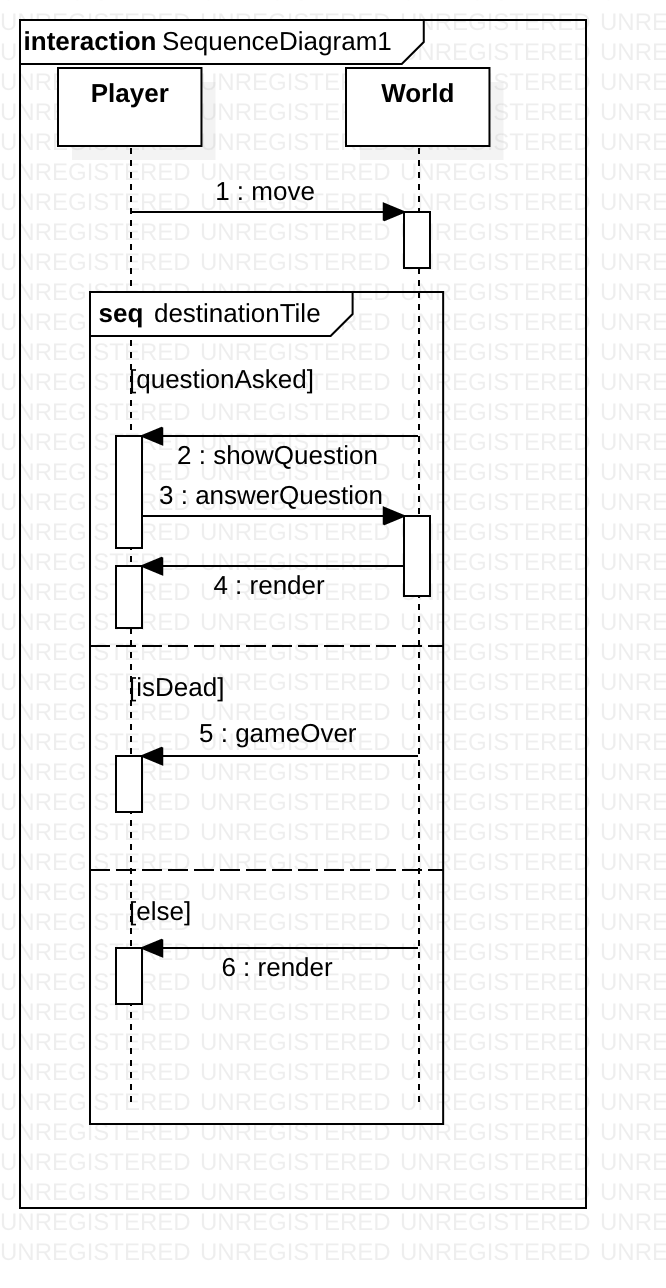
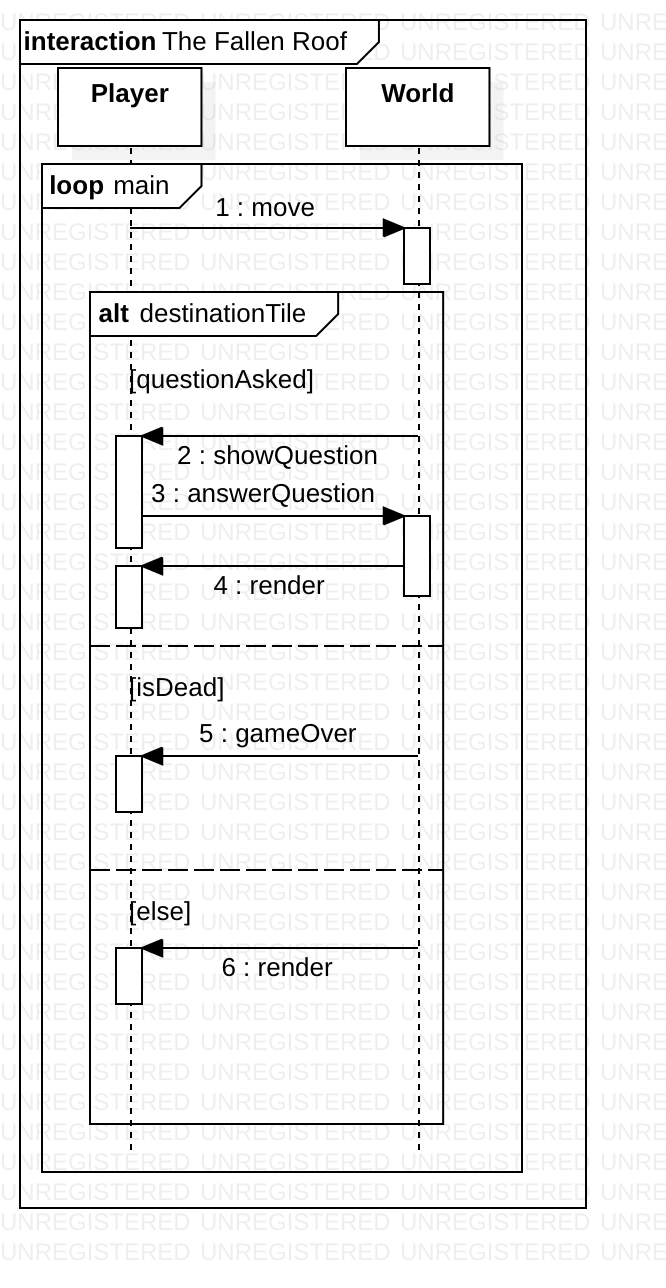
Diagrams in README.md

diff --git a/README.md b/README.md
@@ -249,3 +249,11 @@ NPC при столкновении с ними.
 # Use case диаграмма
 
 ![Use case диаграмма](diagrams/use_case.png)
+
+# Диаграмма классов
+
+![Диаграмма классов](diagrams/classes.png)
+
+# Диаграмма последовательностей
+
+![Диаграмма последовательностей](diagrams/sequence.png)
